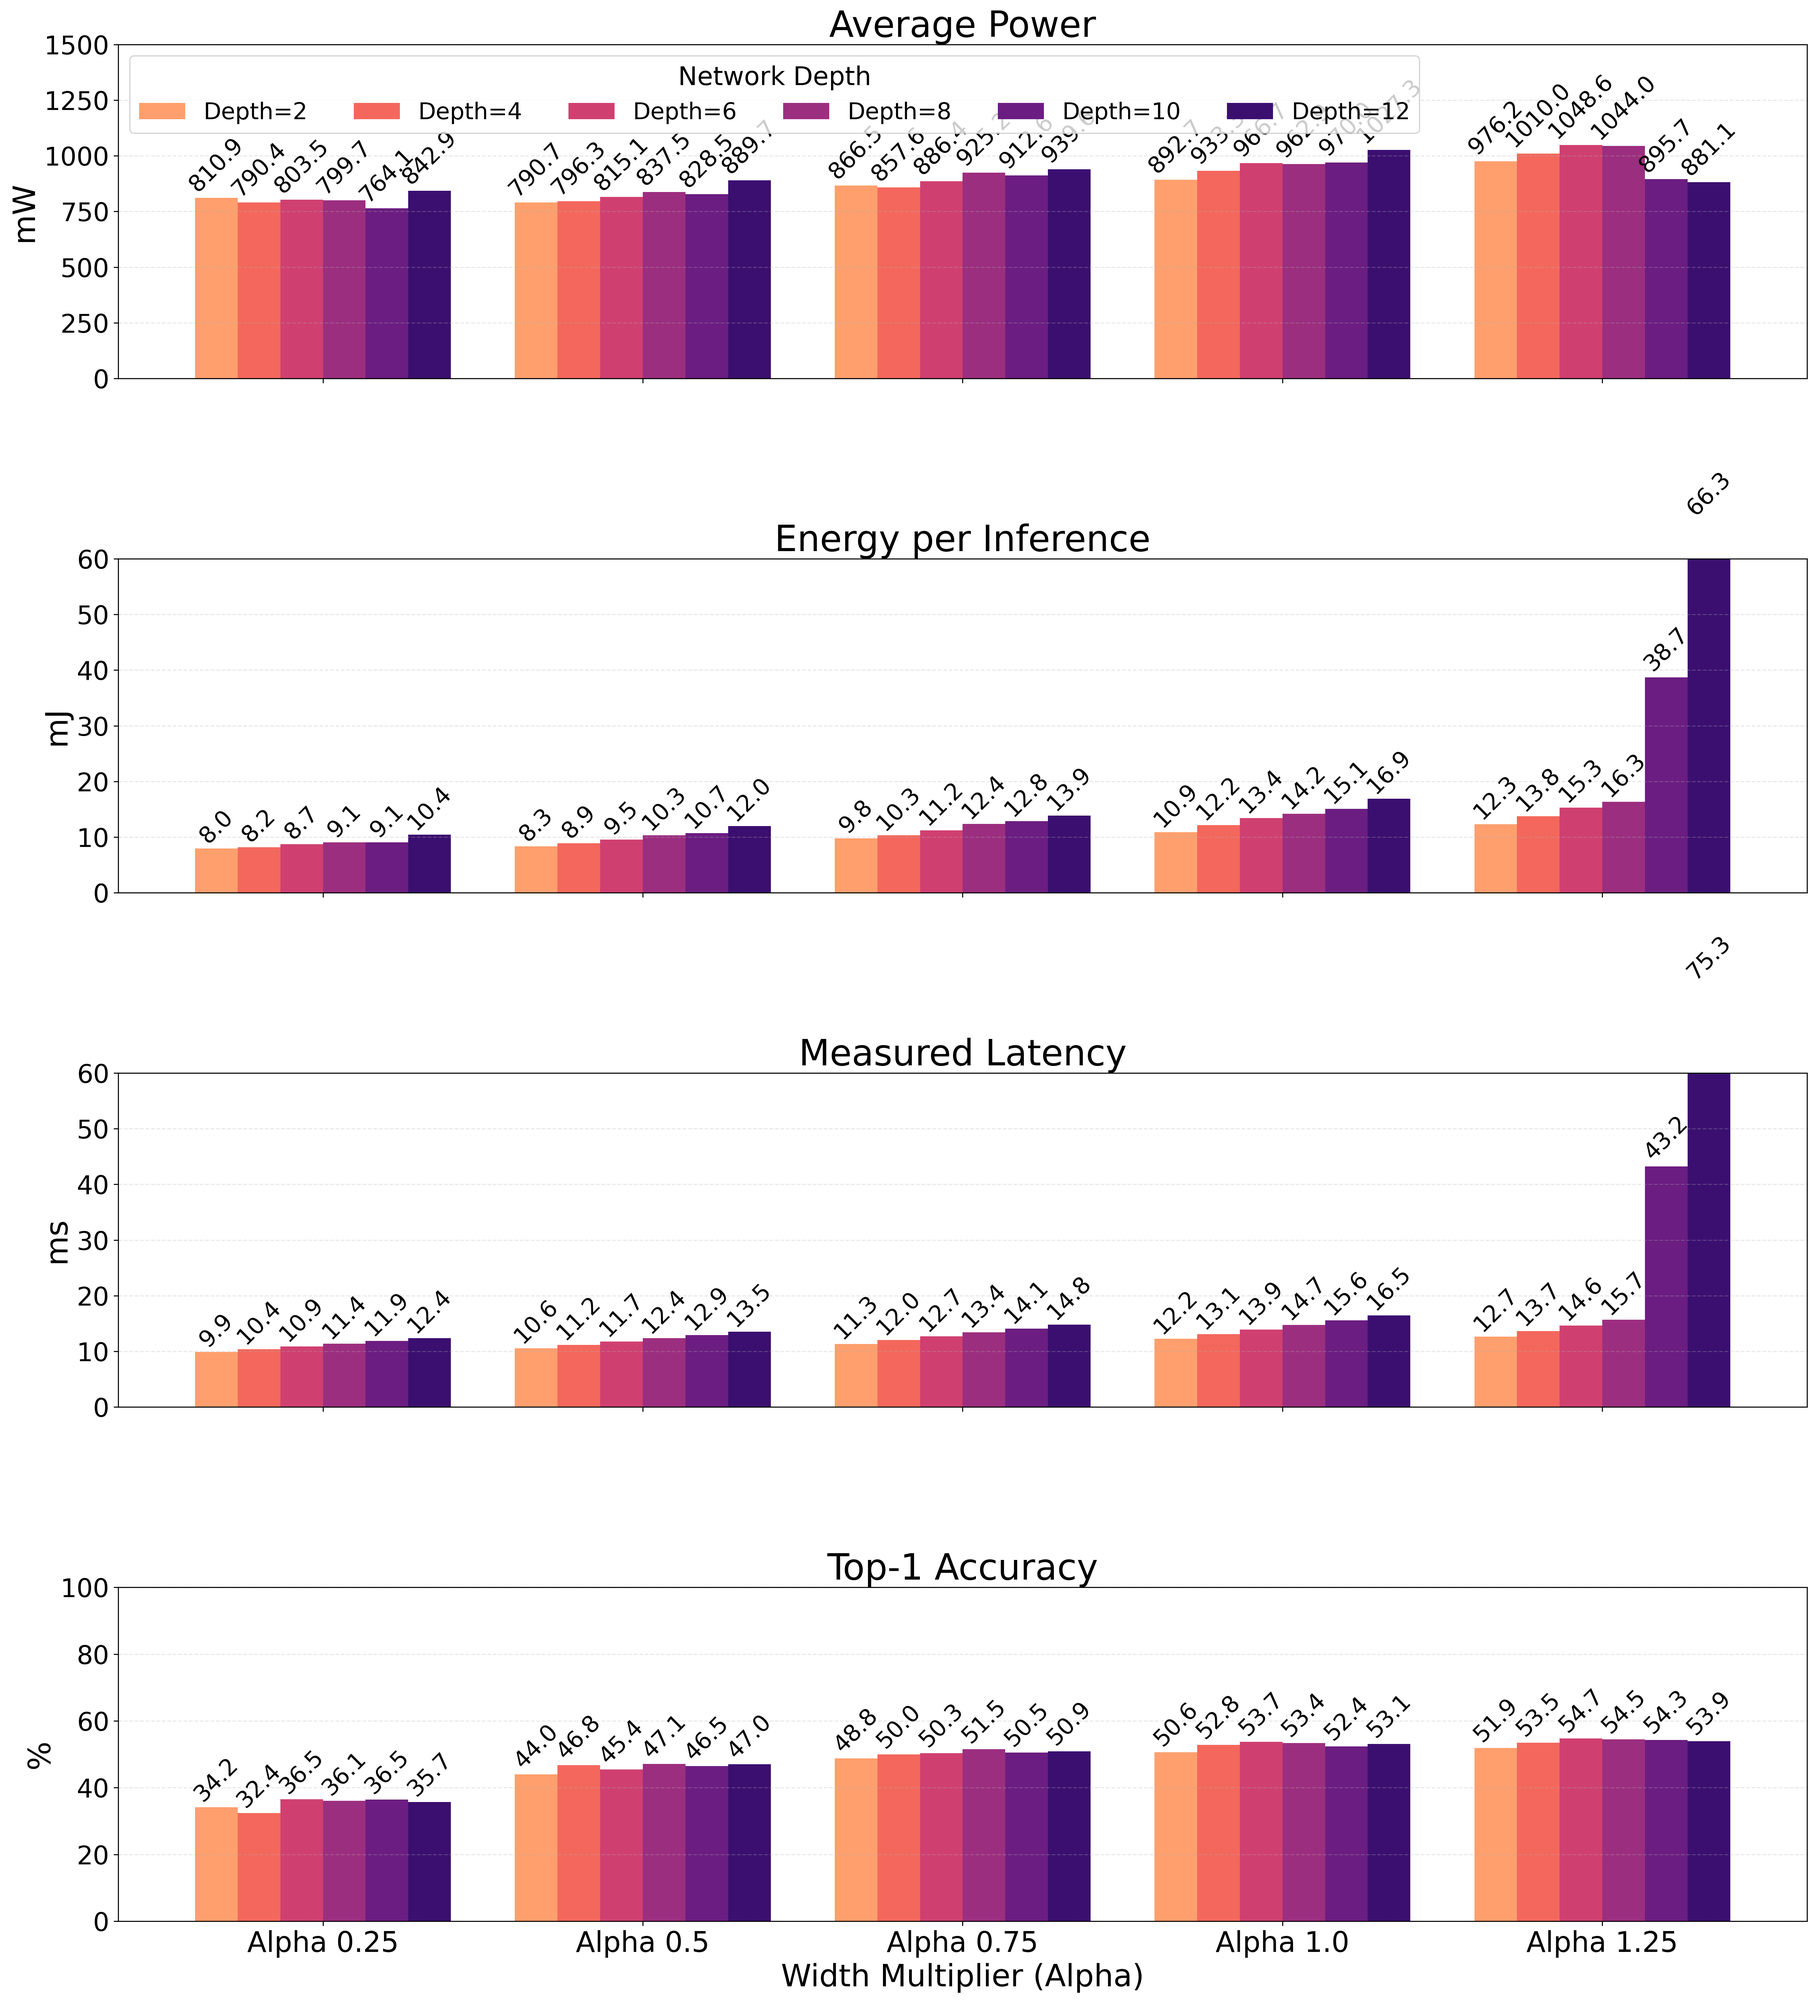
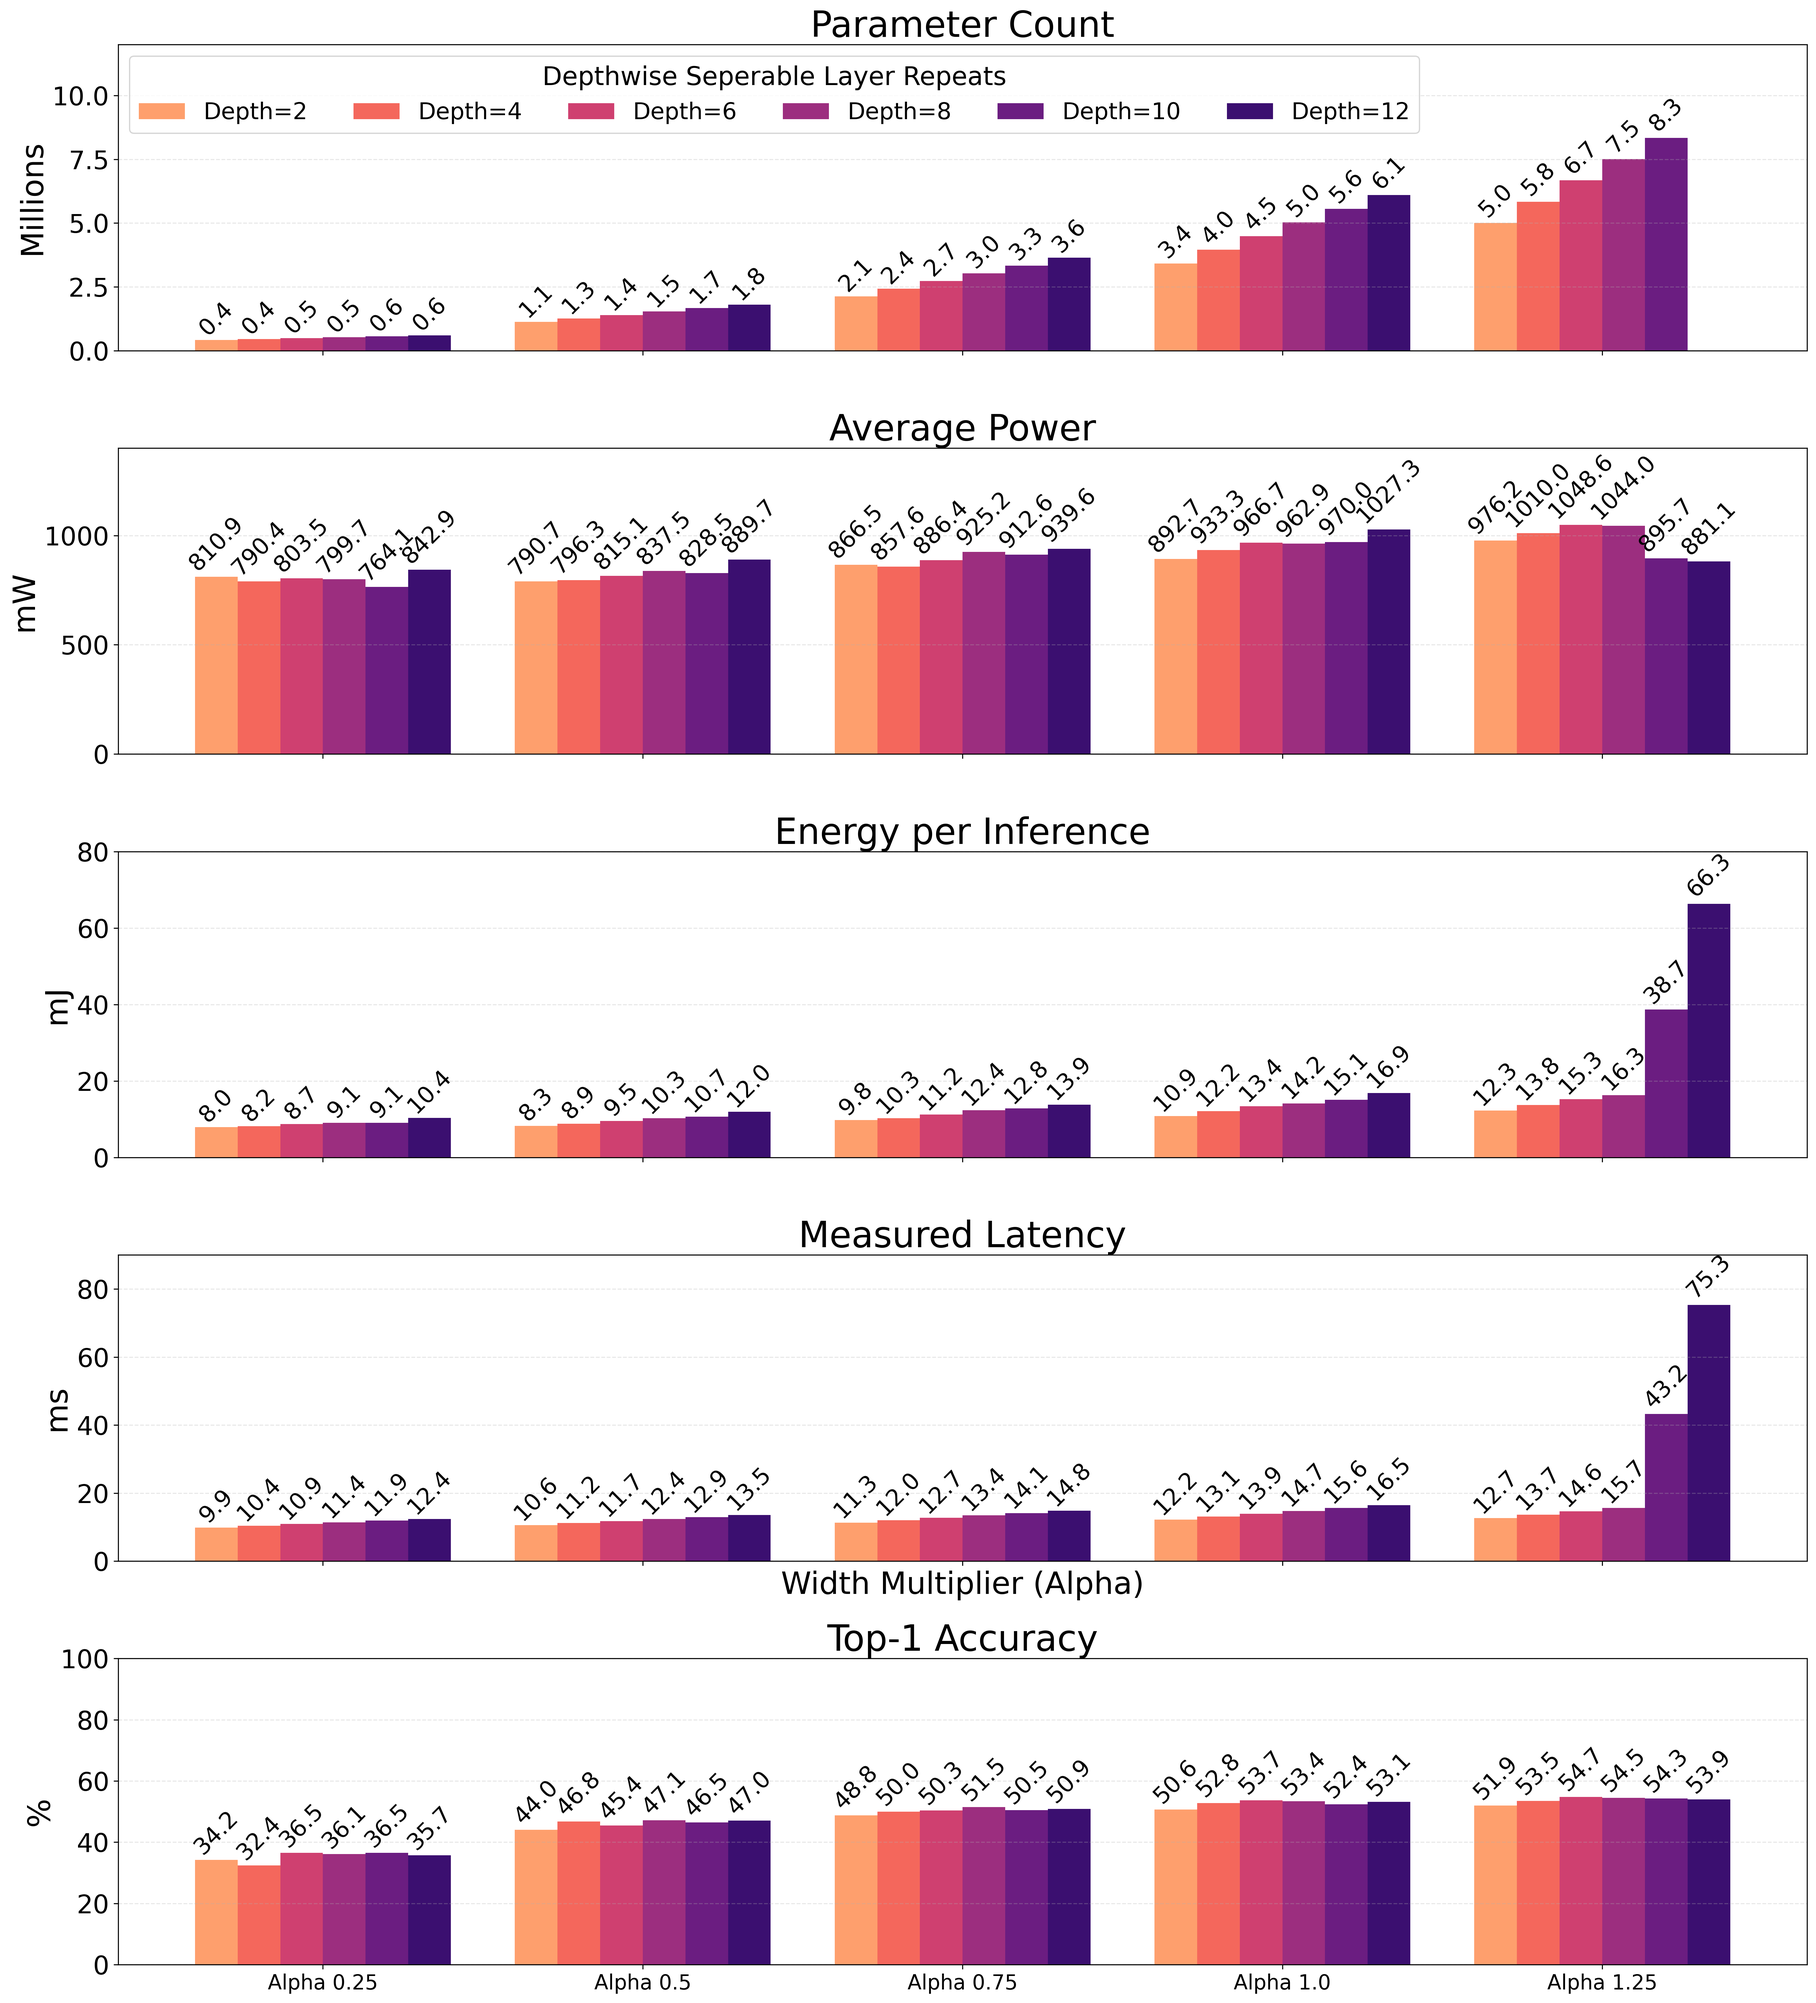
coral micro performance plots with parameter counts

diff --git a/src/scripts/tpunet_plotting.py b/src/scripts/tpunet_plotting.py
@@ -120,7 +120,7 @@ class GridStatsPlotting:
                     "Measured Inference Time (ms)": inf_ms_hardware,
                     "Energy per Inference (mJ)": energy_mj,
                     "Average Power (mW)": power_mw,
-                    "Parameter Count" : pc_dict.get(f"Grid_A{float(alpha)}_D{depth:02d}_quant.tflite", np.nan)
+                    "Parameter Count (M)" : pc_dict.get(f"Grid_A{float(alpha)}_D{depth:02d}_quant.tflite", np.nan)*1e-6 # in millions
                 })
 
         self.df = pd.DataFrame(data_rows)
@@ -160,7 +160,7 @@ class GridStatsPlotting:
         energy = subset["Energy per Inference (mJ)"].to_numpy()
         latency = subset["Measured Inference Time (ms)"].to_numpy()
         accuracy = subset["Top-1 Accuracy"].to_numpy()
-        paramcount = subset["Parameter Count"].to_numpy()
+        paramcount = subset["Parameter Count (M)"].to_numpy()
 
         # param_counts = [x/1e6 for x in pc.scan_models()]
         # TODO: Plot param count
@@ -185,7 +185,7 @@ class GridStatsPlotting:
             for i, v in enumerate(data):
                 ax.text(x_pos[i], v * 1.02, f"{v:.1f}", ha="center", va="bottom", fontsize=18, rotation=45)
 
-        plot_row(0, paramcount * 1e-6, "Parameter Count", "Millions")
+        plot_row(0, paramcount, "Parameter Count", "Millions")
         plot_row(1, power, "Average Power", "mW",1200)
         plot_row(2, energy, "Energy per Inference", "mJ")
         plot_row(3, latency, "Measured Latency", "ms")
@@ -216,7 +216,7 @@ class GridStatsPlotting:
         cmap = plt.get_cmap('magma_r') 
         colors = cmap(np.linspace(0.2, 0.8, len(depths)))
 
-        fig, axes = plt.subplots(nrows=4, ncols=1, sharex=True, figsize=(20, 22))
+        fig, axes = plt.subplots(nrows=5, ncols=1, sharex=True, figsize=(20, 22))
 
         # Helper to plot one metric
         def plot_group_row(ax_idx, metric_col, title, ylabel, ylim_top=None):
@@ -249,18 +249,21 @@ class GridStatsPlotting:
             if ylim_top: ax.set_ylim(0, ylim_top)
             else: ax.autoscale(enable=True, axis='y', tight=False)
 
-        # Power
-        plot_group_row(0, "Average Power (mW)", "Average Power", "mW", ylim_top = 1500)
-        axes[0].legend(title="Network Depth", loc='upper left', fontsize=18, title_fontsize=20, ncol=len(depths))
+        # Parameter Count
+        plot_group_row(0, "Parameter Count (M)", "Parameter Count", "Millions", ylim_top = 12)
+        axes[0].legend(title="Depthwise Seperable Layer Repeats", loc='upper left', fontsize=18, title_fontsize=20, ncol=len(depths))
 
+        # Power
+        plot_group_row(1, "Average Power (mW)", "Average Power", "mW", ylim_top = 1400)
+        
         # Energy
-        plot_group_row(1, "Energy per Inference (mJ)", "Energy per Inference", "mJ",60)
+        plot_group_row(2, "Energy per Inference (mJ)", "Energy per Inference", "mJ",80)
 
         # Latency
-        plot_group_row(2, "Measured Inference Time (ms)", "Measured Latency", "ms",60)
+        plot_group_row(3, "Measured Inference Time (ms)", "Measured Latency", "ms",90)
 
         # Accuracy
-        plot_group_row(3, "Top-1 Accuracy", "Top-1 Accuracy", "%", ylim_top=100)
+        plot_group_row(4, "Top-1 Accuracy", "Top-1 Accuracy", "%", ylim_top=100)
 
         # X-Axis
         axes[3].set_xticks(x)
